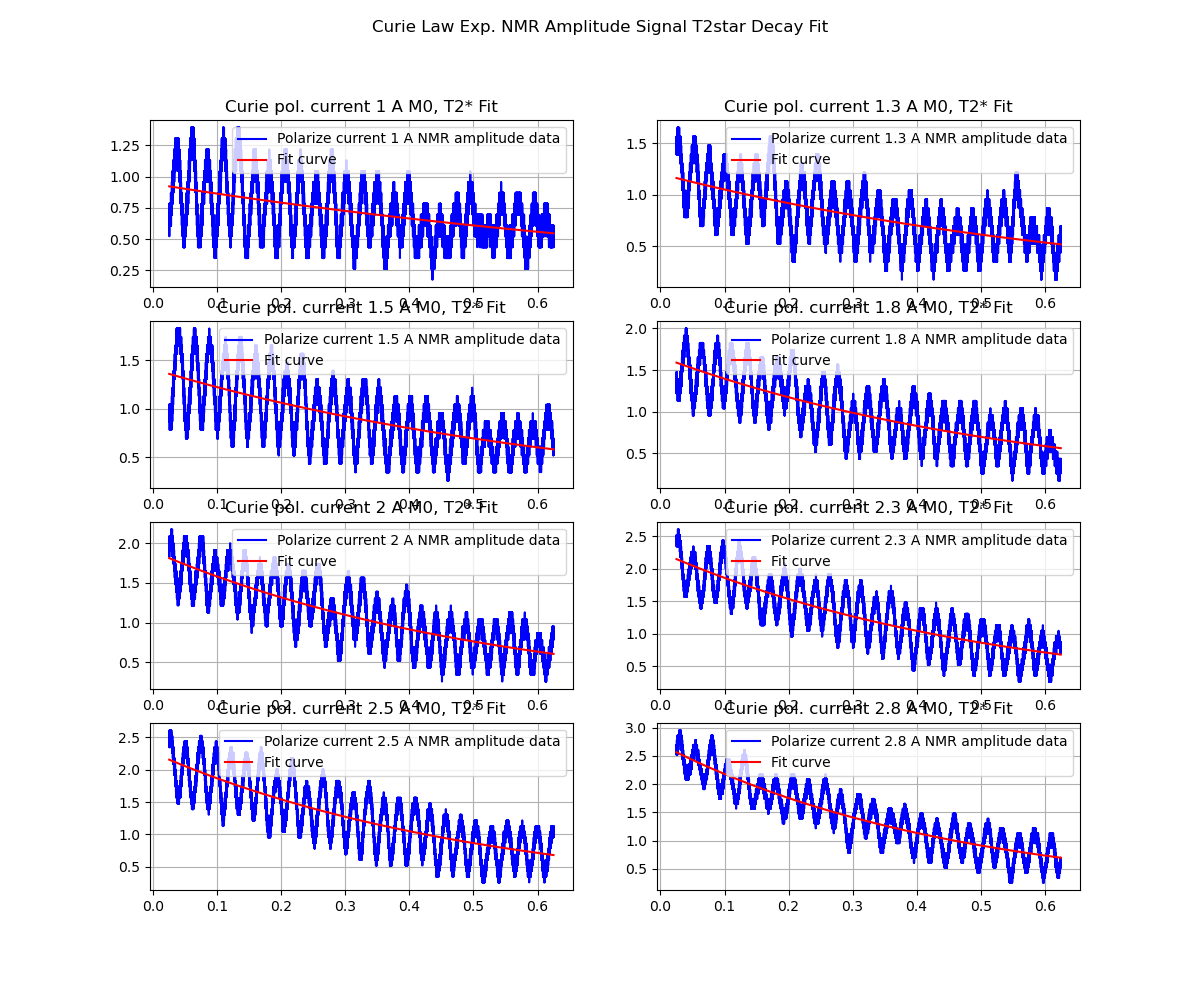
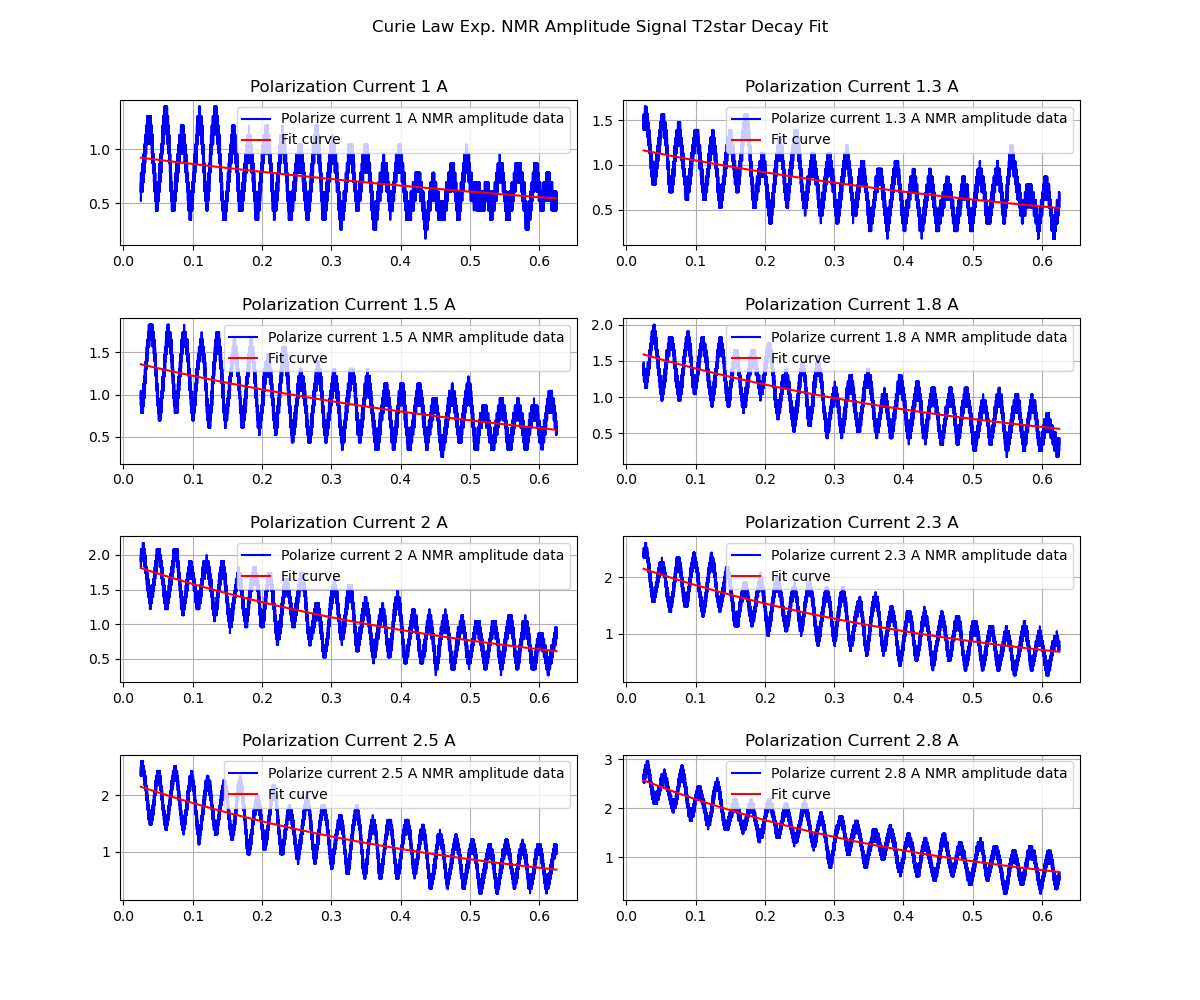
A4 analysis ver. 1

diff --git a/A4/analysis/MPL_A4-T1T2.py b/A4/analysis/MPL_A4-T1T2.py
@@ -45,9 +45,11 @@ tind_l, tind_r = 130000, 450000
 NMR_time_sliced = [time[tind_l:tind_r] for time in NMR_time]
 NMR_sig_sliced = [sig[tind_l:tind_r] for sig in NMR_sig]
 NMR_amp_sliced = [amp[tind_l:tind_r] for amp in NMR_amp]
+
+# Debug NMR signal figure
 # plt.plot(NMR_time[0], NMR_amp[0])
-plt.plot(NMR_time_sliced[3], NMR_sig_sliced[3])
-plt.show()
+# plt.plot(NMR_time_sliced[3], NMR_sig_sliced[3])
+# plt.show()
 
 N = tind_r - tind_l # number of signal data points
 dt = NMR_time_sliced[0][1] - NMR_time_sliced[0][0] # FFT sampling rate
@@ -58,8 +60,9 @@ FFT_freq = [fftfreq(N, dt) for i in range(len(NMR_sig_sliced))]
 FFT_freq = [freq[:N//2] for freq in FFT_freq]
 FFT_sig = [np.abs(signal[:N//2]) for signal in FFT_sig]
 
-plt.plot(FFT_freq[3], FFT_sig[3])
-plt.show()
+# Debug FFT signal figure
+# plt.plot(FFT_freq[3], FFT_sig[3])
+# plt.show()
 
 # Mask with frequency region
 freq_l, freq_r = 2000, 2500
@@ -90,8 +93,12 @@ for ax in axsFFT:
     ax.annotate(f"{FFT_freq[i][FFT_peaks[i][idx]]:.2f} Hz", (FFT_freq[i][FFT_peaks[i][idx]], FFT_sig[i][FFT_peaks[i][idx]]), textcoords="offset points", xytext=(0,-10), ha='center', fontsize=8)
     ax.grid()
     ax.legend()
-    ax.set_title(f"Precession Signal Polarize {FFT_used_ptime[i - 1]} s NMR Amplitude Signal")
+    ax.set_title(f"Polarize {FFT_used_ptime[i - 1]} s")
     i = i + 1
+figFFT.suptitle("Precession Signal Detection in NMR Amplitude Signals")
+plt.subplots_adjust(left=0.1, right=0.9, top=0.9, bottom=0.1, 
+                wspace=0.1, hspace=0.5)
+figFFT.savefig("../pics/Peak-Detection.png")
 plt.show()
 
 T1_fit_time = ptime[1:]
@@ -117,6 +124,7 @@ axs_T1fit.plot(T1_time_span, T1_fit_curve, label = "Fit curve")
 axs_T1fit.scatter(T1_fit_time, T1_magmom, color = "red", label = "Amplitude of precession frequency")
 axs_T1fit.set_title("Amplitude of Precession Frequency to Polarization Time")
 axs_T1fit.legend()
+fig_T1fit.savefig("../pics/T1-fit.png")
 plt.show()
 
 ## Fit T2
@@ -126,8 +134,10 @@ tind_l, tind_r = 160000, 350000
 NMR_time_sliced = [time[tind_l:tind_r] for time in NMR_time]
 NMR_sig_sliced = [sig[tind_l:tind_r] for sig in NMR_sig]
 NMR_amp_sliced = [amp[tind_l:tind_r] for amp in NMR_amp]
-plt.plot(NMR_time_sliced[3], NMR_amp_sliced[3])
-plt.show()
+
+# Debug NMR amplitude signal
+# plt.plot(NMR_time_sliced[3], NMR_amp_sliced[3])
+# plt.show()
 
 def magmom_T2star_eq(time, Mxy, T2star):
     return Mxy * np.exp(-time/T2star)
@@ -146,9 +156,12 @@ for i, axs in enumerate(axsT2star):
 
     axs.plot(T2star_time_span, NMR_amp_sliced[i + 3], color = "blue", label = f"Polarize {T2star_used_ptime[i + 3]} s NMR amplitude data")
     axs.plot(T2star_time_span, T2star_fit_curve, color = "red", label = "Fit curve")
-    axs.set_title("NMR Amplitude Signal T2star Decay Fit")
+    axs.set_title(f"Polarize {T2star_used_ptime[i + 3]} s Fit")
     axs.legend()
     axs.grid()
-
+figT2star.suptitle("NMR Amplitude Signal T2star Decay Fit")
+plt.subplots_adjust(left=0.1, right=0.9, top=0.9, bottom=0.1, 
+                wspace=0.1, hspace=0.5)
+figT2star.savefig("../pics/T2star-fit.png")
 plt.show()
 

diff --git a/A4/analysis/MPL_A4-Curie-Params.py b/A4/analysis/MPL_A4-Curie-Params.py
@@ -28,9 +28,11 @@ for fname in fnames:
 tind_l, tind_r = 200000, 800000
 NMR_time_sliced = [time[tind_l:tind_r] for time in NMR_time]
 NMR_amp_sliced = [amp[tind_l:tind_r] for amp in NMR_amp]
+
+# Debug NMR amplitude signal
 # plt.plot(NMR_time[0], NMR_amp[0])
-plt.plot(NMR_time_sliced[0], NMR_amp_sliced[0])
-plt.show()
+# plt.plot(NMR_time_sliced[0], NMR_amp_sliced[0])
+# plt.show()
 
 def magmom_T2star_eq(time, Mxy, T2star):
     return Mxy * np.exp(-time/T2star)
@@ -52,9 +54,10 @@ for i, axs in enumerate(axsT2star):
     axs.plot(T2star_time_span, T2star_fit_curve, color = "red", label = "Fit curve")
     axs.legend()
     axs.grid()
-    axs.set_title(f"Curie pol. current {pcur[i]} A M0, T2* Fit")
+    axs.set_title(f"Polarization Current {pcur[i]} A")
 figT2star.suptitle("Curie Law Exp. NMR Amplitude Signal T2star Decay Fit")
+plt.subplots_adjust(left=0.1, right=0.9, top=0.9, bottom=0.1, 
+                wspace=0.1, hspace=0.5)
 figT2star.savefig("../pics/Curie-T2star-Decay-Fit.png")
-
 plt.show()
 

diff --git a/A4/analysis/MPL_A4-Spin-Echo.py b/A4/analysis/MPL_A4-Spin-Echo.py
@@ -55,6 +55,7 @@ for i, axs in enumerate(axsSE):
     T2fit_time.append(NMR_time_sliced[i][NMR_sig_peaks[i][1]])
     T2fit_amp.append(NMR_amp_smth[i][NMR_sig_peaks[i][1]])
 figSE.suptitle("Spin-Echo Peaks in Smoothed NMR Amplitude Signal")
+figSE.savefig("../pics/Spin_Echo-Peak-Detection.png")
 plt.show()
 
 def magmom_T2_eq(time, Mz, T2):
@@ -71,6 +72,7 @@ axsSEfit.scatter(T2fit_time, T2fit_amp, color = "orange", label = "Spin-echo dat
 axsSEfit.set_title("Spin-Echo T2 Fit Graph")
 axsSEfit.grid()
 axsSEfit.legend()
+figSEfit.savefig("../pics/Spin_Echo-T2-fit.png")
 plt.show()
 
 
